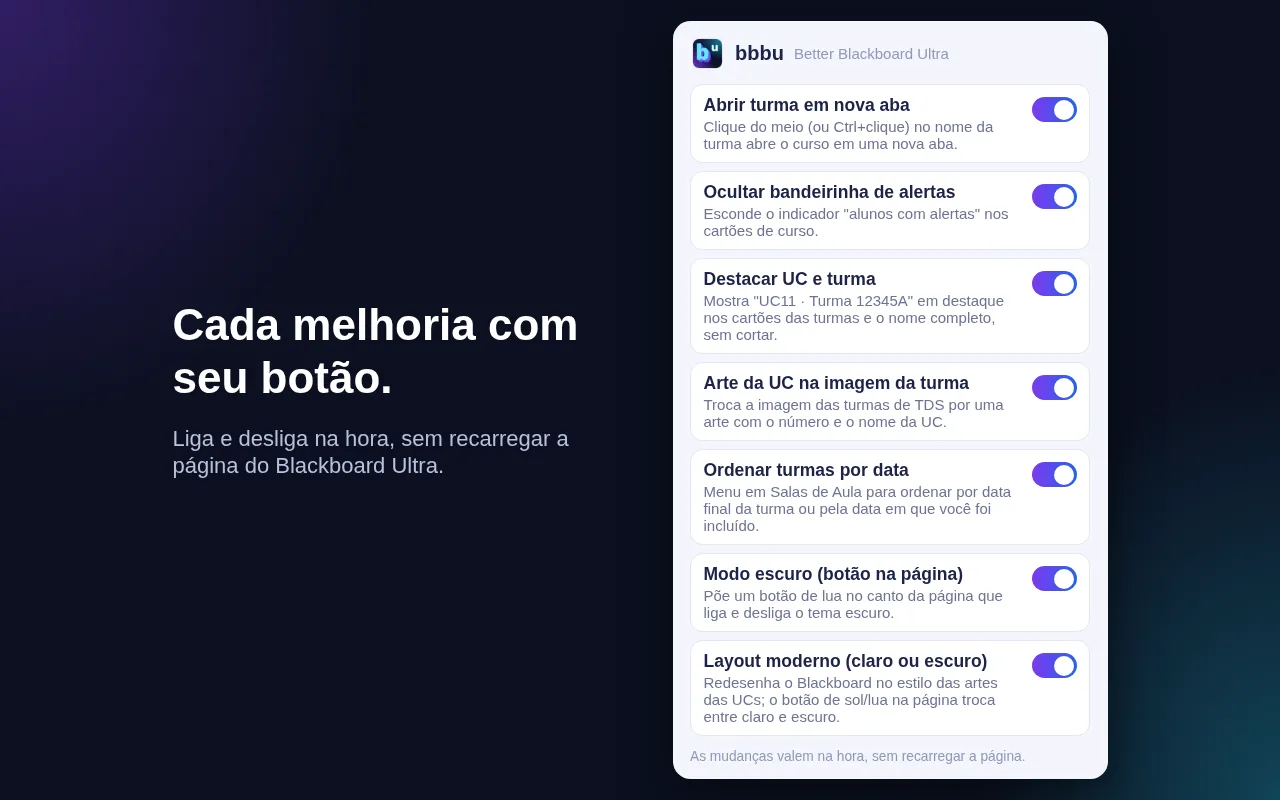
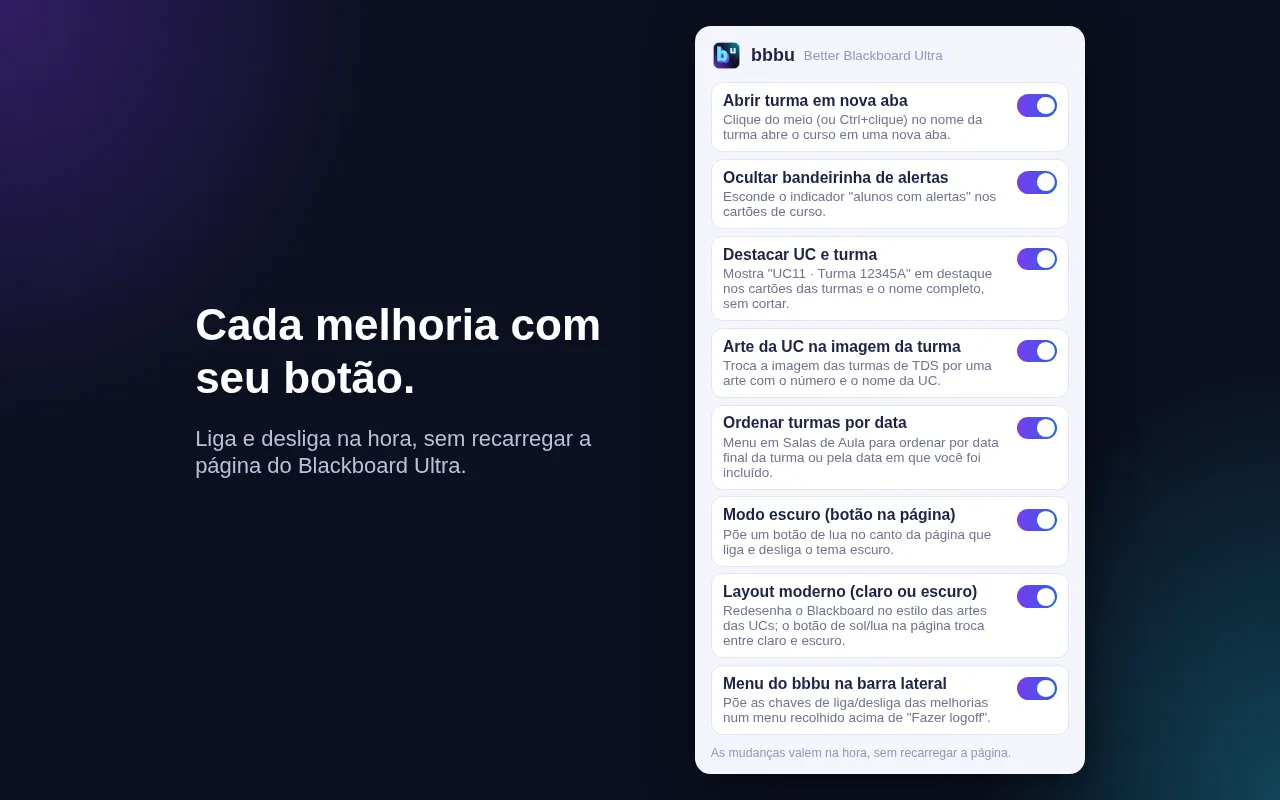
bbbu: capturas com a barra lateral nova, tutorial do menu e ícone novo

Changed region(s): [[0.5, 0.0, 0.875, 1.0], [0.125, 0.375, 0.4688, 0.5], [0.125, 0.5312, 0.4688, 0.5938]]

diff --git a/bbbu/index.html b/bbbu/index.html
@@ -99,7 +99,7 @@
         <li><p>Clique em <strong>"Usar no Chrome"</strong> e confirme em <strong>"Adicionar extensão"</strong>.
             Funciona no Chrome e em navegadores baseados nele, como Edge, Vivaldi, Brave e Opera.</p></li>
         <li><p><strong>Fixe o ícone</strong> para achar fácil: clique na peça de quebra-cabeça (Extensões) ao lado
-            da barra de endereço e no alfinete ao lado de "bbbu". O ícone roxo com um "b" passa a ficar sempre à vista.</p></li>
+            da barra de endereço e no alfinete ao lado de "bbbu". O ícone do bbbu (um "b" em três cores com um "u" no canto) passa a ficar sempre à vista.</p></li>
         <li><p>Entre (ou recarregue) o Blackboard em <a href="https://senac.blackboard.com/ultra/course">senac.blackboard.com</a>.
             Pronto: as melhorias já vêm ligadas.</p></li>
     </ol>
@@ -110,7 +110,14 @@
             <div><p><strong>Ligue e desligue cada melhoria.</strong> Clique no ícone do bbbu na barra do navegador:
             abre uma lista com um botão para cada melhoria. A mudança vale na hora, sem recarregar a página, e fica
             guardada para as próximas vezes.</p></div>
-            <img src="img/passo-popup.webp" width="260" height="453" loading="lazy" alt="Janela da extensão com um botão de liga/desliga para cada melhoria">
+            <img src="img/passo-popup.webp" width="260" height="500" loading="lazy" alt="Janela da extensão com um botão de liga/desliga para cada melhoria">
+        </div></li>
+        <li><div class="passo">
+            <div><p><strong>Ou use o menu da própria página.</strong> Na barra lateral do Blackboard, logo acima de
+            "Fazer logoff", clique em <strong>Melhorias bbbu</strong>: abre a mesma lista de chaves do ícone da extensão.
+            Para fechar, clique fora dela ou aperte <kbd>Esc</kbd>.</p>
+            <p>No topo da mesma barra, com o layout moderno, a sua foto aparece maior e o seu nome inteiro.</p></div>
+            <img src="img/passo-menu.webp" width="218" height="588" loading="lazy" alt="Barra lateral do Blackboard com a foto do perfil no topo e o menu Melhorias bbbu aberto, mostrando as chaves de cada melhoria">
         </div></li>
         <li><div class="passo">
             <div><p><strong>Ache a turma pelo número.</strong> Em Salas de Aula, cada cartão mostra a UC e a turma
@@ -123,12 +130,10 @@
             <img src="img/passo-ordenar.webp" width="470" height="84" loading="lazy" alt="Menu Ordenar, com a opção Padrão do Blackboard, acima da lista de turmas"></li>
         <li><div class="passo">
             <div><p><strong>Troque entre claro e escuro.</strong> No canto inferior direito de qualquer página do
-            Blackboard fica um botão redondo de sol/lua. Um clique troca o tema; o navegador lembra a sua escolha.</p></div>
-            <img src="img/passo-tema.webp" width="260" height="150" loading="lazy" alt="Botão de lua no canto inferior direito da página, destacado com um círculo">
+            Blackboard fica um botão redondo de sol/lua. Um clique troca o tema; o navegador lembra a sua escolha.
+            Vale também nas turmas no formato antigo do Blackboard, que ganham as mesmas cores e cartões.</p></div>
+            <img src="img/passo-tema.webp" width="254" height="130" loading="lazy" alt="Botão de lua no canto inferior direito da página, destacado com um círculo">
         </div></li>
-        <li><p><strong>Ou use o menu da própria página.</strong> Na barra lateral do Blackboard, logo acima de
-            "Fazer logoff", clique em <strong>Melhorias bbbu</strong>: abre a mesma lista de chaves do ícone da extensão.
-            Para fechar, clique fora dela ou aperte <kbd>Esc</kbd>.</p></li>
         <li><p><strong>Abra turmas em outra aba.</strong> Clique com o botão do meio do mouse (ou <kbd>Ctrl</kbd>+clique,
             <kbd>⌘</kbd>+clique no Mac) no nome da turma: ela abre numa aba nova e a lista de cursos continua onde estava.</p></li>
     </ol>
